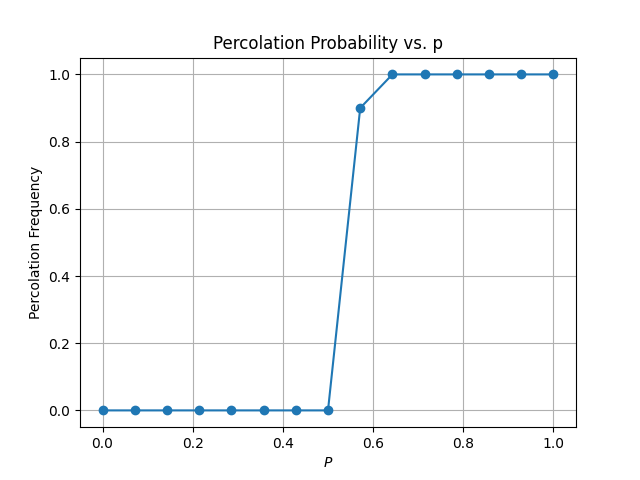
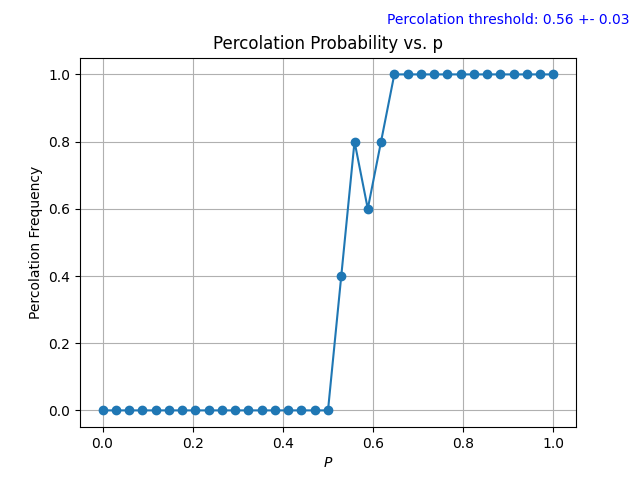
Created: Method to calculate t's critical exponent, missing unitary tests and debugging

diff --git a/classes/simulation.py b/classes/simulation.py
@@ -2,6 +2,7 @@ import numpy as np
 from classes import teselado
 import matplotlib.pyplot as plt
 from scipy.ndimage import label
+from scipy.stats import linregress
 
 
 # ===============================================================
@@ -158,7 +159,7 @@ class forestFire():
         plt.title('Burning time as a function of p\nErrorbar = 1$\sigma$')
         plt.savefig(saveRoute)
         
-    def percolationThreshold(self,saveRoute:str,n:int,m:int, matrix:np.ndarray):
+    def percolationThreshold(self,saveRoute:str,n:int,m:int, matrix:np.ndarray, plot:bool=False):
         '''
          args: 
          - n: amount of values for p to consider in the interval 0 to 1
@@ -174,17 +175,89 @@ class forestFire():
                 _ = self.propagateFire(p)
                 percolationResults[i,j] = percolation_check(self.forest)
                 
+        # Delta of p
+        delta = np.round(1/n,2)
         
         # Calculate the frequency of percolation for each p
         percolation_frequencies = percolationResults.mean(axis=1)
+        
+        # Get the percolation threshold
+        p_c = np.round(P[percolation_frequencies > 0.5][0],2)
 
-        # Plot
-        plt.plot(P, percolation_frequencies, marker='o')
-        plt.xlabel("$P$")
-        plt.ylabel("Percolation Frequency")
-        plt.title("Percolation Probability vs. p")
-        plt.grid()
-        plt.savefig(saveRoute)
+        if plot:
+            # Plot
+            plt.plot(P, percolation_frequencies, marker='o')
+            plt.xlabel("$P$")
+            plt.ylabel("Percolation Frequency")
+            plt.title("Percolation Probability vs. p")
+            plt.grid()
+            plt.text(0.63, 1.15, f'Percolation threshold: {p_c} +- {delta}', fontsize=10, color="blue")
+            plt.savefig(saveRoute)
+        
+        return p_c
+    
+    def criticalExponent(self, saveRoute:str,epsilon:float,delta:float, n:int, m1:int,m2:int, initial:np.ndarray):
+        self.forest = np.copy(initial)
+        #p_c = self.percolationThreshold(saveRoute, n,m1,self.forest)
+        p_c=0.50
+        
+        # POssible p values to consider around p_c
+        P = np.arange( p_c, p_c + epsilon, delta)
+        #P = np.arange(p_c - epsilon, p_c, delta)
+        t = np.abs(P-p_c)
+        print(t)
+        print(np.log(t))
+        #print(t)
+        
+        # Registered Percolating cluster size
+        meanM = np.zeros(len(t))
+        
+        # Simulate and calculate the mean percolation cluster size
+        for i,p in enumerate(P):
+            
+            M = np.zeros(m2)
+            for j in range(m2):
+                self.forest = np.copy(initial)
+                self.propagateFire(p)
+
+                # Given the finished board, calculate the size of percolating cluster
+
+                # Check if it percolated
+                if percolation_check(self.forest):
+
+                    # Calculate the size of the cluster (cells with zeros)
+                    M[j] = np.sum(self.forest == 3)
+                    
+            # Take the mean
+            if np.sum(M) == 0: meanM[i] = 0
+            else: meanM[i] = np.mean(M[ M>0 ] )
+        
+        # Now we can find the critical exponent
+        
+        # Convert to logarithm scale
+        mask = (meanM != 0) & (t != 0)
+        log_t = np.log(t[mask])
+        log_meanM = np.log(meanM[mask])
+        
+        # Make the linear regression
+        slope, intercept, r_value, p_value, std_err = linregress(log_t, log_meanM)
+        
+        # Get the critical exponent B
+        B = -slope
+        #
+        #x = np.arange(0,1,0.01)
+        plt.plot(log_t,log_meanM)
+        #plt.ylim(0,20)
+        plt.savefig('./prueba')
+        #print(log_t)
+        
+        #print(meanM)
+
+        #print(p_c)
+
+        print(log_meanM)
+        return B
+        
     
 #=============================================================================================================================================
 class squareForest(forestFire):

diff --git a/main.py b/main.py
@@ -23,12 +23,24 @@ if __name__ == '__main__':
         forest.propagationTime(saveRoute,n,m, matrix)
             
     elif usrChoice == 3:
-        n = 15    # Amount of values to consider for p
-        m = 10      # Amount of trials per p        
+        n = 35    # Amount of values to consider for p
+        m = 5      # Amount of trials per p        
         saveRoute = './graphs/percolationThreshold.png'
         
         forest = simulation.squareForest(burningThreshold=0.55, initialForest=matrix)
-        forest.percolationThreshold(saveRoute,n,m,matrix)
+        p_c = forest.percolationThreshold(saveRoute,n,m,matrix,True)
+        
+    elif usrChoice == 4:
+        n = 20    # Amount of values to consider for p in the range (0,1)to fin p_c
+        m1 = 5      # Amount of trials per p        
+        m2 = 10     # Amount of trials per p to find M
+        saveRoute = './graphs/percolationThreshold.png'
+        epsilon = 0.1
+        delta = 0.001
+        
+        forest = simulation.squareForest(burningThreshold=0.55, initialForest=matrix)
+        criticalExponent = forest.criticalExponent(saveRoute,epsilon,delta,n,m1,m2,matrix)
+        print(criticalExponent)
             
         
     

diff --git a/menu.py b/menu.py
@@ -10,6 +10,7 @@ def menu():
     1   Run squared Fire and generate gif
     2   Calculate propagation time graph as a function of p
     3   Determine the percolation threshold P_c
+    4   Find the critical exponent
     
     '''
     
